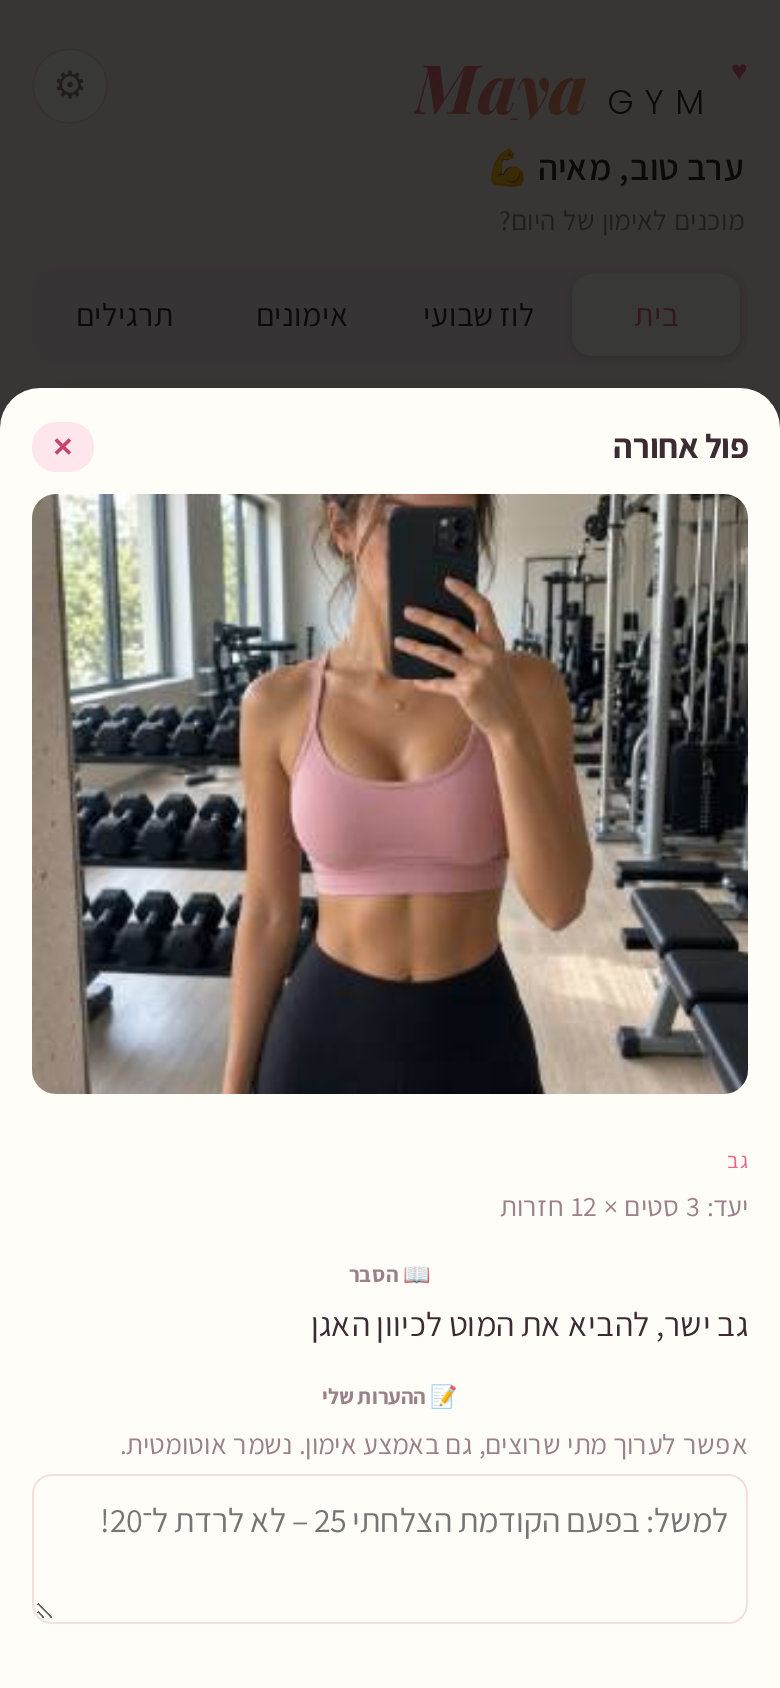
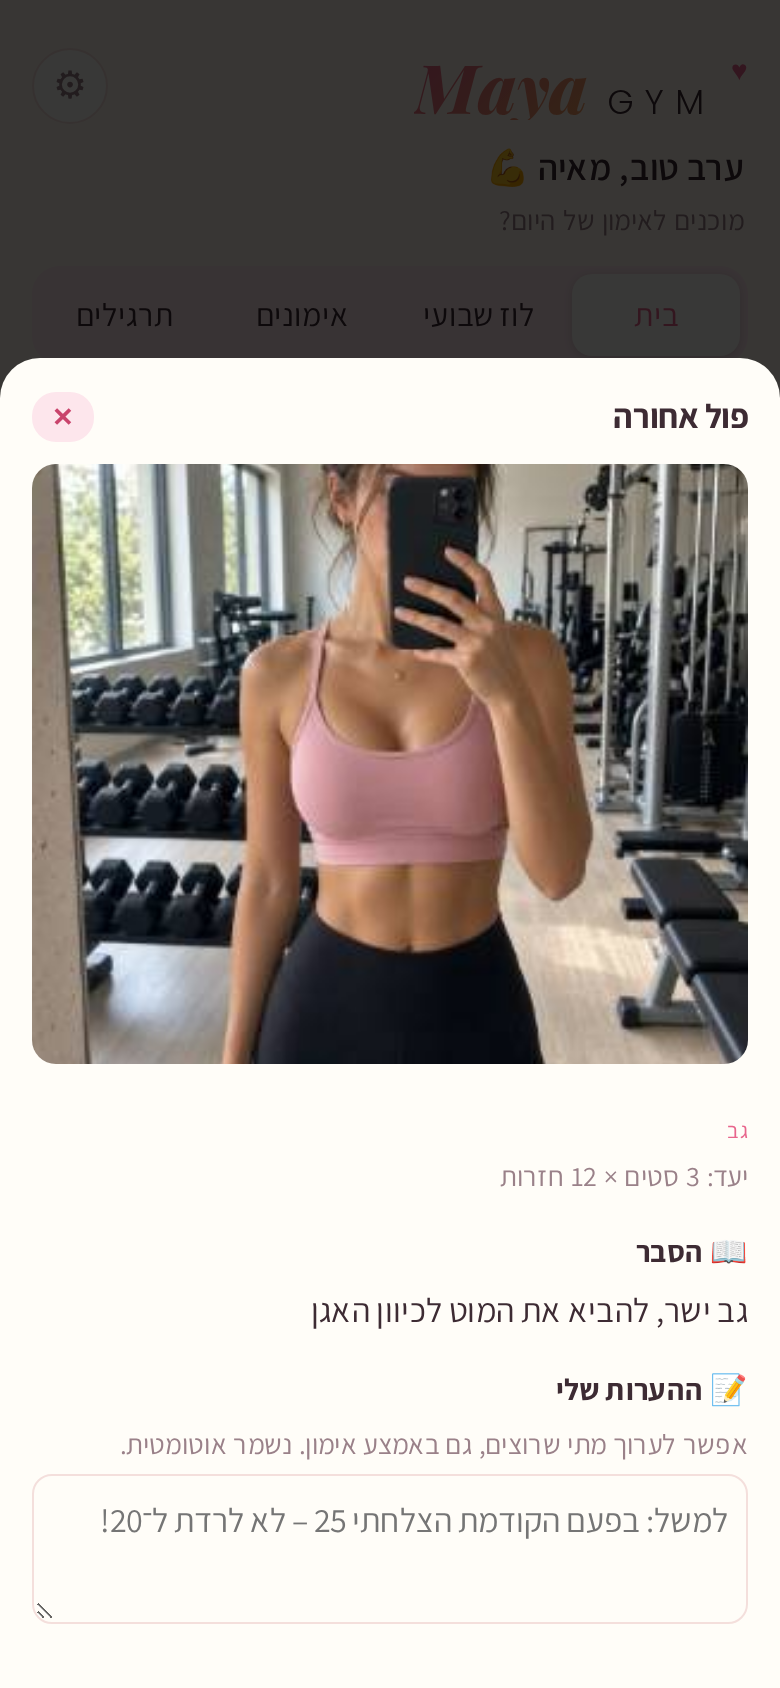
fix header class collision

diff --git a/index.html b/index.html
@@ -64,7 +64,7 @@ body.hasfab #view{padding-bottom:84px}
 .pop .must{font-weight:700;color:var(--ac);font-size:17px;margin:16px 0 10px}.pop .btn.big{width:100%;padding:14px;font-size:18px;border-radius:14px}
 .pop .lnk{background:none;border:none;font:inherit;color:var(--mu);text-decoration:underline;margin-top:10px;padding:6px;cursor:pointer}.pop .aft{max-height:220px;margin:12px 0 8px}
 @keyframes pu{from{transform:scale(.85);opacity:0}}@keyframes fi{from{opacity:0}}
-.dh{margin:14px 0 4px;font-size:15px;font-weight:700;text-align:start;display:block;width:100%}.dp{margin:0 0 6px;white-space:pre-wrap}.mynote{width:100%;font:inherit}
+.xdh{margin:14px 0 4px;font-size:15px;font-weight:700;text-align:start;display:block;width:100%}.dp{margin:0 0 6px;white-space:pre-wrap}.mynote{width:100%;font:inherit}
 .myn{margin-top:3px;font-size:13px;background:#fff4d6;color:#7a5200;border-radius:8px;padding:3px 8px;display:inline-block}.myn[hidden]{display:none}
 .tag{background:#ffffff1f;color:#ffd6e1}
 .xtop{display:flex;justify-content:space-between;align-items:center;margin:2px 4px 8px}.xtop span{opacity:.6;font-size:13px}
@@ -282,7 +282,7 @@ function showExercise(ex,it){
     ex.img?el("img",{class:"big",src:ex.img,alt:ex.name}):null,
     el("span",{class:"tag",text:ex.muscle||""}),
     it?el("div",{class:"mu",text:"יעד: "+(it.sets||"-")+" סטים × "+(it.reps||"-")+" חזרות"}):null,
-    el("h4",{class:"dh",text:"📖 הסבר"}),
+    el("div",{class:"xdh",text:"📖 הסבר"}),
     el("p",{class:"dp",text:exDesc(ex,it)||"אין הסבר לתרגיל הזה עדיין."}),
     it&&it.note&&it.note.trim()!==exDesc(ex,it)?el("div",{class:"mu",text:"הערה באימון הזה: "+it.note}):null,
     noteBox(ex));
@@ -296,7 +296,7 @@ function noteBox(ex){
   ta.addEventListener("input",()=>{st.textContent="שומר…";clearTimeout(t);t=setTimeout(()=>{const v=ta.value.trim();
     const e=exById(ex.id);if(!e)return;if(v)e.my=v;else delete e.my;ex.my=e.my;commit();st.textContent="נשמר ✓";
     document.querySelectorAll('[data-my="'+ex.id+'"]').forEach(d=>{d.textContent=v?"📝 "+v:"";d.hidden=!v})},600)});
-  return el("div",{class:"mnw"},el("h4",{class:"dh",text:"📝 ההערות שלי"}),el("div",{class:"mu",style:"margin-bottom:4px",text:"אפשר לערוך מתי שרוצים, גם באמצע אימון. נשמר אוטומטית."}),ta,st)}
+  return el("div",{class:"mnw"},el("div",{class:"xdh",text:"📝 ההערות שלי"}),el("div",{class:"mu",style:"margin-bottom:4px",text:"אפשר לערוך מתי שרוצים, גם באמצע אימון. נשמר אוטומטית."}),ta,st)}
 function openSession(id){
   const k=wkById(id);if(!k)return;
   const key=keyFor(id);let st=L.get(key,{d:{},w:{}});st.d=st.d||{};st.w=st.w||{};
